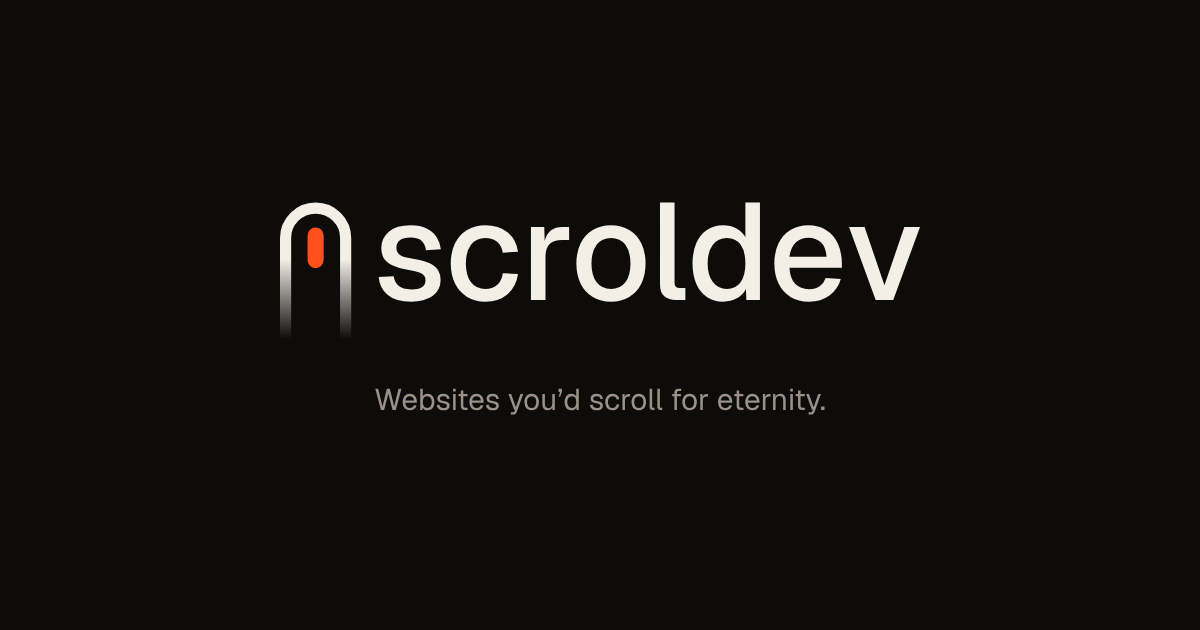
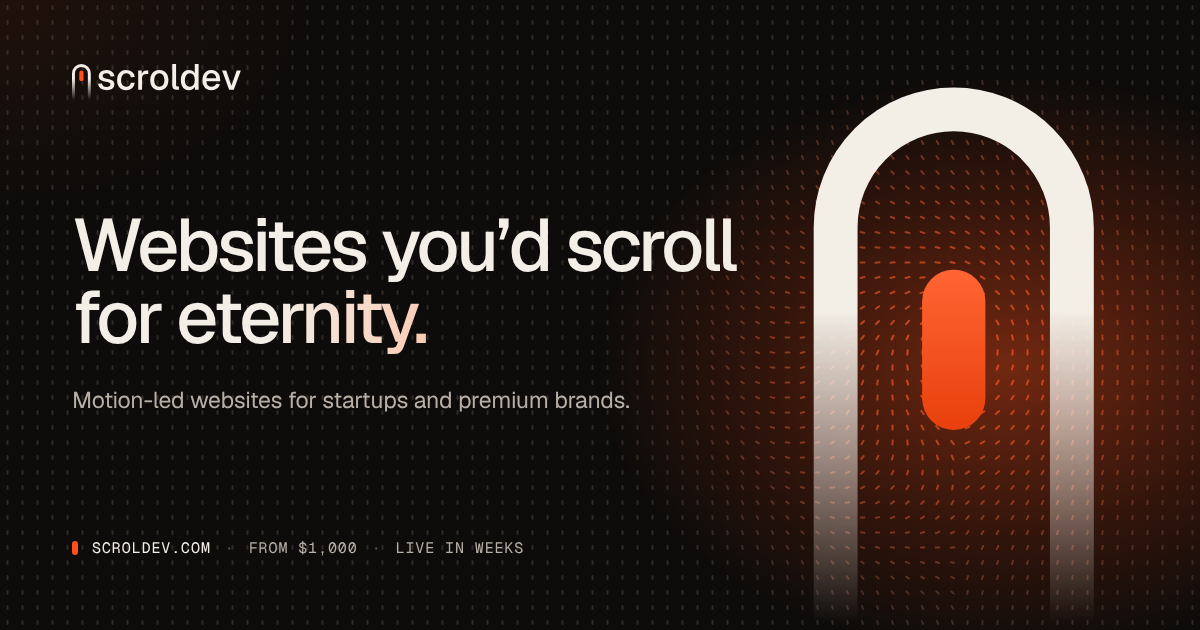
feat: final polish for launch
- Pill grid answers the scroll: drifts as a background layer and its pills
  stretch with scroll speed, then settle
- Section headlines rise word by word; screen readers get them whole
- Glass cards catch an Ember glint that follows the pointer; buttons lean
  toward it (mouse only)
- Agency is a rounded Paper sheet that grows to full width as it rises
- Footer link sweeps, tab title and console note
- New share image (og-image.png) with alt text
- Reduced motion keeps all of it still

Claude-Session: https://claude.ai/code/session_01HUxZjL9mNeuuhyu4zXCyXC

diff --git a/hub/assets/main.js b/hub/assets/main.js
@@ -193,9 +193,43 @@ function menu() {
   wide.addEventListener("change", (e) => e.matches && !panel.hidden && close());
 }
 
-/* ---------- Reveals ---------- */
+/* ---------- Reveals ----------
+   Blocks fade up as they arrive. Headlines go further: each word rises through its line, like the hero's. Screen
+   readers get the headline whole, from a hidden copy; the split words are only for the eye. */
+
+function splitWords(el) {
+  const copy = Object.assign(document.createElement("span"), {
+    className: "visually-hidden",
+    textContent: el.textContent.trim().replace(/\s+/g, " "),
+  });
+  const shown = document.createElement("span");
+  shown.setAttribute("aria-hidden", "true");
+  shown.append(...el.childNodes);
+  let n = 0;
+  const walk = (node) => {
+    for (const child of [...node.childNodes]) {
+      if (child.nodeType === Node.ELEMENT_NODE) walk(child);
+      if (child.nodeType !== Node.TEXT_NODE) continue;
+      const parts = child.textContent.split(/(\s+)/).filter(Boolean);
+      child.replaceWith(
+        ...parts.map((part) => {
+          if (/^\s+$/.test(part)) return " ";
+          const word = Object.assign(document.createElement("span"), { className: "word" });
+          const inner = Object.assign(document.createElement("span"), { textContent: part });
+          inner.style.setProperty("--w", n++);
+          word.append(inner);
+          return word;
+        }),
+      );
+    }
+  };
+  walk(shown);
+  el.append(copy, shown);
+  el.classList.add("split");
+}
 
 function reveals() {
+  if (!calm) for (const el of $$(".h1[data-reveal], .statement[data-reveal], .contact-title[data-reveal]")) splitWords(el);
   const io = new IntersectionObserver(
     (entries) => {
       for (const e of entries) {
@@ -442,20 +476,41 @@ function heroStage(stage) {
 /* ---------- The pill grid ----------
    The brand's pill-grid tile (2 × 5px pills every 15px), drawn live in one fixed layer behind every dark section.
    Ember is kept for the pointer: pills near it warm to Ember and turn to circle it, then cool slowly once it moves
-   on, so it leaves a fading orange trail. On touch screens the trail follows the finger. */
+   on, so it leaves a fading orange trail. On touch screens the trail follows the finger. The grid also answers the
+   scroll: it drifts up at a fraction of the page's speed, so it reads as a layer behind, and its pills stretch with
+   scroll speed, then settle back. */
 
 function pillField(canvas) {
   if (!canvas) return;
   const ctx = canvas.getContext("2d");
   const GAP = 15, LEN = 5, WIDTH = 2, RADIUS = 120, SHADES = 16, PEAK = 0.62;
+  const DRIFT = 0.18; // the grid's share of the scroll
   const cool = [46, 42, 38], ember = [255, 79, 26];
   const shade = Array.from({ length: SHADES + 1 }, (_, i) =>
     `rgb(${cool.map((c, j) => Math.round(c + (ember[j] - c) * (i / SHADES) * PEAK)).join(",")})`,
   );
-  let w = 0, h = 0, dpr = 1, n = 0;
+  let w = 0, h = 0, dpr = 1, n = 0, cols = 0;
   let xs, ys, as, heat;
   let px = -1e5, py = -1e5;
   let running = 0;
+  let row = 0, offset = 0, stretch = 0, lastY = scrollY;
+  const travel = () => (calm ? 0 : scrollY * DRIFT);
+
+  // Where the grid sits for the current scroll. It is drawn one row taller than the screen and nudged up by the
+  // part of a row it has drifted; each whole row it drifts, the warmth and turn move up a row with their pills.
+  function place() {
+    const next = Math.floor(travel() / GAP);
+    offset = travel() - next * GAP;
+    const k = next - row;
+    row = next;
+    if (!k || !n) return;
+    const by = Math.abs(k) * cols;
+    for (const values of [heat, as]) {
+      if (by >= n) values.fill(0);
+      else if (k > 0) values.copyWithin(0, by).fill(0, n - by);
+      else values.copyWithin(by, 0, n - by).fill(0, 0, by);
+    }
+  }
 
   function build() {
     w = canvas.clientWidth;
@@ -464,7 +519,8 @@ function pillField(canvas) {
     dpr = Math.min(devicePixelRatio || 1, 2);
     canvas.width = Math.round(w * dpr);
     canvas.height = Math.round(h * dpr);
-    const cols = Math.ceil(w / GAP), rows = Math.ceil(h / GAP);
+    cols = Math.ceil(w / GAP);
+    const rows = Math.ceil(h / GAP) + 1;
     n = cols * rows;
     xs = new Float32Array(n);
     ys = new Float32Array(n);
@@ -476,19 +532,22 @@ function pillField(canvas) {
         ys[i] = GAP / 2 + r * GAP;
       }
     }
+    row = Math.floor(travel() / GAP);
+    place();
     draw();
   }
 
   function pill(i) {
-    const half = (LEN / 2) * (1 + heat[i] * 0.5) - WIDTH / 2;
+    const half = (LEN / 2) * (1 + heat[i] * 0.5 + stretch * 1.2) - WIDTH / 2;
     const dx = Math.sin(as[i]) * half, dy = Math.cos(as[i]) * half;
     ctx.moveTo(xs[i] - dx, ys[i] - dy);
     ctx.lineTo(xs[i] + dx, ys[i] + dy);
   }
 
   function draw() {
-    ctx.setTransform(dpr, 0, 0, dpr, 0, 0);
-    ctx.clearRect(0, 0, w, h);
+    ctx.setTransform(1, 0, 0, 1, 0, 0);
+    ctx.clearRect(0, 0, canvas.width, canvas.height);
+    ctx.setTransform(dpr, 0, 0, dpr, 0, -offset * dpr);
     ctx.lineWidth = WIDTH;
     ctx.lineCap = "round";
     // One stroke per shade: the cold grid in a single pass, then the warm pills from dim to Ember.
@@ -517,10 +576,17 @@ function pillField(canvas) {
 
   function step() {
     running = 0;
-    let busy = false;
+    place();
+    // Fast scrolling stretches the pills, like a long exposure; they settle back once the page slows.
+    const y = scrollY;
+    const speed = Math.min(1, Math.abs(y - lastY) / 50);
+    lastY = y;
+    stretch += (speed - stretch) * (speed > stretch ? 0.35 : 0.1);
+    if (stretch < 0.005) stretch = 0;
+    let busy = stretch > 0;
     const R2 = RADIUS * RADIUS;
     for (let i = 0; i < n; i++) {
-      const dx = px - xs[i], dy = py - ys[i];
+      const dx = px - xs[i], dy = py - (ys[i] - offset);
       const d2 = dx * dx + dy * dy;
       let k = 0, target = 0;
       if (d2 < R2) {
@@ -555,6 +621,7 @@ function pillField(canvas) {
 
   new ResizeObserver(build).observe(canvas);
   if (calm) return;
+  addEventListener("scroll", kick, { passive: true });
   addEventListener("pointermove", (e) => point(e.clientX, e.clientY), { passive: true });
   addEventListener("touchstart", (e) => point(e.touches[0].clientX, e.touches[0].clientY), { passive: true });
   addEventListener("touchmove", (e) => point(e.touches[0].clientX, e.touches[0].clientY), { passive: true });
@@ -772,6 +839,64 @@ function footerLogo() {
   document.documentElement.addEventListener("pointerleave", () => (px = null));
 }
 
+/* ---------- Light and pull ----------
+   With a mouse, glass catches the light: an Ember glint follows the pointer across a card's edge and surface. Buttons
+   lean toward the pointer and their labels lean a little further, then settle back when it leaves. */
+
+function pointerCraft() {
+  if (!finePointer || calm) return;
+  addEventListener("pointermove", (e) => {
+    const card = e.target.closest?.(".card, .brief");
+    if (!card) return;
+    const r = card.getBoundingClientRect();
+    card.style.setProperty("--mx", `${Math.round(e.clientX - r.left)}px`);
+    card.style.setProperty("--my", `${Math.round(e.clientY - r.top)}px`);
+  }, { passive: true });
+
+  for (const btn of $$(".btn:not(.plan-cta)")) {
+    btn.addEventListener("pointermove", (e) => {
+      const r = btn.getBoundingClientRect();
+      btn.style.setProperty("--pull-x", `${(((e.clientX - r.left) / r.width - 0.5) * 12).toFixed(1)}px`);
+      btn.style.setProperty("--pull-y", `${(((e.clientY - r.top) / r.height - 0.5) * 10).toFixed(1)}px`);
+    });
+    btn.addEventListener("pointerleave", () => {
+      btn.style.removeProperty("--pull-x");
+      btn.style.removeProperty("--pull-y");
+    });
+  }
+}
+
+/* ---------- 03 Agency: the Paper page rises as a sheet, growing to full width as it arrives ---------- */
+
+function sheet() {
+  const el = $(".agency");
+  if (!el || calm) return;
+  let last = -1;
+  whileVisible(el, (vh) => {
+    // Scaled from its top edge, so its top (and every measurement taken from it) never moves.
+    const p = clamp((vh - el.getBoundingClientRect().top) / (vh * 0.7));
+    const s = Math.round((0.94 + 0.06 * ease(p)) * 1000) / 1000;
+    if (s === last) return;
+    last = s;
+    el.style.scale = s === 1 ? "" : String(s);
+  });
+}
+
+/* ---------- Small things: the tab and the console ---------- */
+
+function signature() {
+  const title = document.title;
+  document.addEventListener("visibilitychange", () => {
+    document.title = document.hidden ? "Keep scrolling ↓ · Scroldev" : title;
+  });
+  const email = $("#brief")?.dataset.email;
+  console.log(
+    `%cScroldev%c\nWebsites you’d scroll for eternity. Designed and built by hand, no templates.${email ? `\nLike what you see under the hood? ${email}` : ""}`,
+    "font: 500 22px/1.6 Geist, system-ui, sans-serif; color: #ff4f1a",
+    "font: 12px/1.7 'Geist Mono', ui-monospace, monospace; color: #b8b0a6",
+  );
+}
+
 /* ---------- 06 Contact: the brief opens as an email ---------- */
 
 function brief() {
@@ -840,6 +965,9 @@ pillField($(".pills"));
 manifesto();
 pillars();
 processTrack();
+sheet();
+pointerCraft();
 footerLogo();
 brief();
+signature();
 schedule();

diff --git a/hub/assets/styles.css b/hub/assets/styles.css
@@ -183,6 +183,10 @@ main, .footer { position: relative; z-index: 1; }
 
 /* The Paper section uses the light tile from the same kit. */
 .agency {
+  /* A sheet laid over the Ink: inset and rounded, it grows to full width as it rises (scaled in main.js). */
+  margin-inline: clamp(6px, 1vw, 16px);
+  border-radius: clamp(24px, 3vw, 44px);
+  transform-origin: 50% 0;
   background:
     radial-gradient(70% 60% at 100% 0%, rgb(255 79 26 / 0.13), transparent 65%),
     radial-gradient(55% 45% at 0% 100%, rgb(232 64 12 / 0.07), transparent 70%),
@@ -299,6 +303,34 @@ h3 {
   box-shadow: inset 0 1px 0 rgb(255 255 255 / 0.8);
 }
 
+/* Glass catches the light: with a mouse, an Ember glint follows the pointer across a card's edge, and a softer
+   light across its surface (the pointer position is set in main.js). */
+@media (hover: hover) and (pointer: fine) {
+  .card, .brief { position: relative; isolation: isolate; }
+  .card::before, .card::after, .brief::before, .brief::after {
+    content: "";
+    position: absolute;
+    border-radius: inherit;
+    pointer-events: none;
+    opacity: 0;
+    transition: opacity var(--t-ui) var(--ease);
+  }
+  .card::before, .brief::before {
+    inset: 0;
+    z-index: -1;
+    background: radial-gradient(460px circle at var(--mx, 50%) var(--my, 0%), rgb(255 79 26 / 0.15), transparent 65%);
+  }
+  .card::after, .brief::after {
+    inset: -1px;
+    padding: 1.5px;
+    background: radial-gradient(280px circle at var(--mx, 50%) var(--my, 0%), rgb(255 178 140), rgb(255 79 26 / 0.45) 40%, transparent 75%);
+    -webkit-mask: linear-gradient(#000 0 0) content-box, linear-gradient(#000 0 0);
+    -webkit-mask-composite: xor;
+    mask: linear-gradient(#000 0 0) content-box exclude, linear-gradient(#000 0 0);
+  }
+  .card:hover::before, .card:hover::after, .brief:hover::before, .brief:hover::after { opacity: 1; }
+}
+
 /* Soft Ember light behind a section. */
 .glow {
   position: absolute;
@@ -331,8 +363,12 @@ h3 {
   line-height: 1;
   white-space: nowrap;
   cursor: pointer;
-  transition: background-color var(--t-ui) var(--ease), border-color var(--t-ui) var(--ease), color var(--t-ui) var(--ease);
+  transition: background-color var(--t-ui) var(--ease), border-color var(--t-ui) var(--ease), color var(--t-ui) var(--ease), translate var(--t-ui) var(--ease);
 }
+
+/* With a mouse, buttons lean toward the pointer and their labels lean a little further (set in main.js). */
+.btn { translate: var(--pull-x, 0px) var(--pull-y, 0px); }
+.btn-label { translate: calc(var(--pull-x, 0px) * 0.4) calc(var(--pull-y, 0px) * 0.4); transition: translate var(--t-ui) var(--ease); }
 
 /* Labels roll up like a scrolled line: the copy below slides in to replace them. */
 .btn-label { display: block; height: 1.25em; overflow: hidden; line-height: 1.25em; }
@@ -489,7 +525,7 @@ h3 {
 .nav a.is-current::before { opacity: 1; transform: none; }
 
 /* Over the hero, which has its own Ember button, the header's call to action stays quiet. */
-.header-cta { display: none; transition: opacity var(--t-ui) var(--ease), visibility 0s linear 0s, background-color var(--t-ui) var(--ease), border-color var(--t-ui) var(--ease), color var(--t-ui) var(--ease); }
+.header-cta { display: none; transition: opacity var(--t-ui) var(--ease), visibility 0s linear 0s, background-color var(--t-ui) var(--ease), border-color var(--t-ui) var(--ease), color var(--t-ui) var(--ease), translate var(--t-ui) var(--ease); }
 .js .header:not(.is-past-hero) .header-cta {
   background: transparent;
   border-color: color-mix(in srgb, var(--fg) 30%, transparent);
@@ -1357,8 +1393,12 @@ details[open]::details-content { block-size: auto; }
 }
 .footer-cols .label { margin-bottom: 16px; color: var(--muted); }
 .footer-cols ul { display: grid; gap: 8px; }
-.footer-cols a { transition: color var(--t-micro) var(--ease); }
-.footer-cols a:hover { color: var(--ember); }
+.footer-cols a {
+  padding-bottom: 2px;
+  background: linear-gradient(currentColor, currentColor) right bottom / 0 1px no-repeat;
+  transition: color var(--t-micro) var(--ease), background-size var(--t-ui) var(--ease);
+}
+.footer-cols a:hover { color: var(--ember); background-size: 100% 1px; background-position: left bottom; }
 .footer-meter { grid-column: 1 / -1; }
 .footer-count { font-size: var(--fs-h3); font-weight: 500; letter-spacing: -0.015em; }
 .footer-count span { font-family: var(--mono); font-weight: 400; letter-spacing: 0; font-variant-numeric: tabular-nums; }
@@ -1402,6 +1442,37 @@ details[open]::details-content { block-size: auto; }
 }
 
 /* ---------- Reveals ---------- */
+
+/* Headlines: each word rises through its line (split in main.js). The gradient moves onto the words, since a
+   gradient clipped to text doesn't reach text that is moving. */
+.js .split[data-reveal] { opacity: 1; transform: none; }
+.split .word {
+  display: inline-block;
+  overflow: hidden;
+  vertical-align: top;
+  padding: 0 0.06em 0.12em;
+  margin: 0 -0.06em -0.12em;
+}
+.split .word > span {
+  display: inline-block;
+  transform: translate3d(0, 108%, 0);
+  transition: transform 0.9s var(--ease);
+  transition-delay: calc(var(--i, 0) * 90ms + min(var(--w) * 28ms, 560ms));
+}
+.split.is-in .word > span, .no-motion .split .word > span { transform: none; }
+[data-surface="ink"] .h1.split, .contact-title.split { background: none; color: var(--fg); }
+[data-surface="ink"] .h1.split .word > span {
+  background: linear-gradient(180deg, #fff 0%, var(--paper) 45%, #d6cbbd 100%);
+  -webkit-background-clip: text;
+  background-clip: text;
+  color: transparent;
+}
+.contact-title.split .word > span {
+  background: linear-gradient(180deg, #fff 40%, #ffd2bf);
+  -webkit-background-clip: text;
+  background-clip: text;
+  color: transparent;
+}
 
 .js [data-reveal] {
   opacity: 0;

diff --git a/hub/template.html b/hub/template.html
@@ -17,6 +17,7 @@
   <meta property="og:image" content="{{siteUrl}}/og-image.png">
   <meta property="og:image:width" content="1200">
   <meta property="og:image:height" content="630">
+  <meta property="og:image:alt" content="Scroldev: Websites you’d scroll for eternity. The Scroldev mark glowing Ember over the pill grid.">
   <meta name="twitter:card" content="summary_large_image">
 
   <link rel="icon" href="icons/favicon.ico" sizes="48x48">

diff --git a/README.md b/README.md
@@ -112,11 +112,15 @@ Open http://localhost:4173. Use a server rather than opening the file directly: 
 ### How the page works
 
 - **Hero:** the logo mark, drawn live on a canvas so it stays sharp at any size. It draws itself on load and its thumb scrolls down its track and back, like the logo animation. Scrolling pins the hero: the copy dissolves, the mark moves to the centre and grows, and the view dives into the thumb until the screen is Ember: a page in the style of the brand book's chapter openers, with the all-white mark drawing itself in beside "Every scroll earns the next."
-- **Pill grid:** the brand's pill-grid tile is drawn live in one fixed layer behind every dark section (the Paper section uses the light tile). Pills near the cursor warm toward Ember, curve around it and cool slowly behind it, leaving a soft orange trail. On phones the trail follows the finger.
-- **Glass and light:** the header, cards, demos and the brief form are frosted glass over the pill grid, with soft Ember glows behind the services, pricing and contact sections.
+- **Pill grid:** the brand's pill-grid tile is drawn live in one fixed layer behind every dark section (the Paper section uses the light tile). Pills near the cursor warm toward Ember, curve around it and cool slowly behind it, leaving a soft orange trail. On phones the trail follows the finger. The grid also answers the scroll: it drifts up at a fraction of the page's speed, so it reads as a layer behind, and its pills stretch with scroll speed like a long exposure, then settle.
+- **Glass and light:** the header, cards, demos and the brief form are frosted glass over the pill grid, with soft Ember glows behind the services, pricing and contact sections. With a mouse, an Ember glint follows the pointer across each card's edge and surface, and buttons lean toward the pointer.
+- **Headlines:** each section headline rises word by word through its line as it arrives, like the hero's. Screen readers get the headline whole.
+- **Agency:** the Paper section is a rounded sheet laid over the Ink, growing to full width as it rises.
 - **What we build:** on desktop the section pins and five panels slide past sideways; each has a small demo (scroll motion, layout, speed score, CMS edit, package timelines) that plays as it arrives. On phones the panels stack.
 - **Contact:** Ember light rises behind a glass brief form, which opens the visitor's email app with the brief filled in, addressed to `contactEmail`. No backend or third-party form service.
 - **The end:** the page finishes on the Scroldev logo, full width. It draws itself in when it arrives; then its thumb follows the pointer up and down the track and the letters lift as the pointer passes over them.
+- **Small things:** leave the tab and its title asks you to keep scrolling; open the browser console and there's a note from the studio. Links shared on social media show `og-image.png`, the mark glowing Ember over the pill grid.
+- **Reduced motion:** with the system setting on, all of the above is still: no pinning, drifting, rising or leaning, only fades.
 
 ### Deploy (Vercel)
 
@@ -133,7 +137,7 @@ Open http://localhost:4173. Use a server rather than opening the file directly: 
 5. Add your LinkedIn and Instagram links in `hub/config.json` when they're ready.
 6. Optional: add the site to Google Search Console and submit `https://scroldev.com/sitemap.xml`.
 
-Before launch the site was checked with Lighthouse (mobile: performance 99, accessibility 100, best practices 100, SEO 100; desktop: 100 across the board), html-validate, and a link and asset check of `dist/`.
+Before launch the site was checked with Lighthouse (mobile: performance 96–99 depending on the run, accessibility 100, best practices 100, SEO 100; desktop: 100 across the board), html-validate, and a link and asset check of `dist/`.
 
 ## Deploy each portfolio site
 
